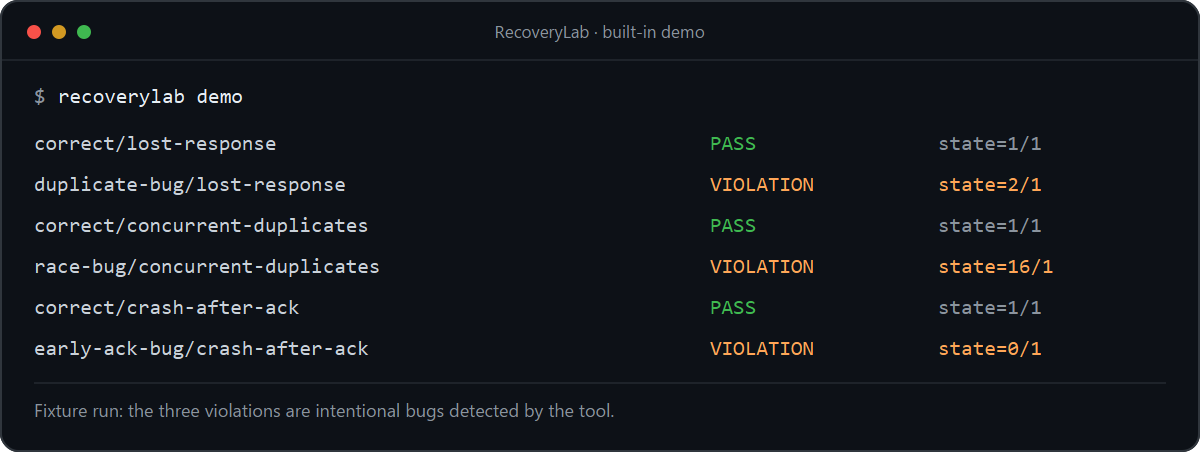
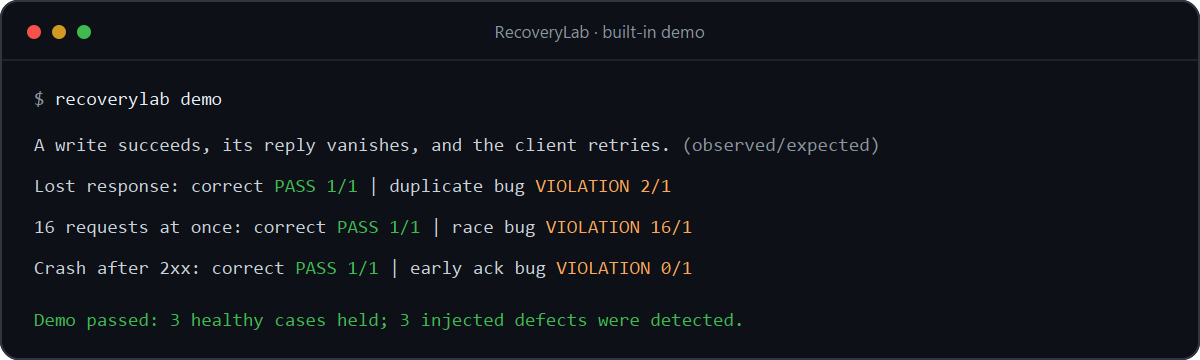
Simplify demo output and try it on NetCore

diff --git a/cmd/recoverylab/main.go b/cmd/recoverylab/main.go
@@ -242,6 +242,7 @@ func demo(args []string) int {
 		{"early-ack-bug", "crash-after-ack", "VIOLATION"},
 	}
 	allGood := true
+	reports := make([]engine.Report, len(cases))
 	for i, item := range cases {
 		addr, err := freeAddress()
 		if err != nil {
@@ -261,24 +262,32 @@ func demo(args []string) int {
 			c.Concurrency = 0
 		}
 		r := engine.Run(context.Background(), c)
-		fmt.Printf("%-38s %-10s expected=%s", r.Name, r.Status, item.want)
-		if r.Expected != nil && r.Observed != nil {
-			fmt.Printf("  state=%d/%d", *r.Observed, *r.Expected)
-		}
-		fmt.Println()
+		reports[i] = r
 		if r.Status != item.want {
 			allGood = false
+			fmt.Fprintf(os.Stderr, "%s: got %s, expected %s\n", r.Name, r.Status, item.want)
 			if r.Error != "" {
-				fmt.Println("  ", r.Error)
+				fmt.Fprintln(os.Stderr, "  ", r.Error)
 			}
 		}
 	}
+	fmt.Println("A write succeeds, its reply vanishes, and the client retries. (observed/expected)")
+	fmt.Printf("Lost response: correct %s | duplicate bug %s\n", demoResult(reports[0]), demoResult(reports[1]))
+	fmt.Printf("16 requests at once: correct %s | race bug %s\n", demoResult(reports[2]), demoResult(reports[3]))
+	fmt.Printf("Crash after 2xx: correct %s | early ack bug %s\n", demoResult(reports[4]), demoResult(reports[5]))
 	if !allGood {
-		fmt.Fprintln(os.Stderr, "Demo did not meet its expected outcomes.")
+		fmt.Fprintln(os.Stderr, "Demo failed: at least one fixture missed its expected outcome.")
 		return 1
 	}
-	fmt.Println("\nDemo passed: healthy cases held; duplicate, race, and durability defects were detected.")
+	fmt.Println("Demo passed: 3 healthy cases held; 3 injected defects were detected.")
 	return 0
+}
+
+func demoResult(r engine.Report) string {
+	if r.Observed == nil || r.Expected == nil {
+		return r.Status
+	}
+	return fmt.Sprintf("%s %d/%d", r.Status, *r.Observed, *r.Expected)
 }
 
 func serveFixture(args []string) int {

diff --git a/internal/engine/engine.go b/internal/engine/engine.go
@@ -225,7 +225,7 @@ func runLostResponse(ctx context.Context, request config.Request, r *Report) err
 	if retryErr != nil {
 		return fmt.Errorf("retry request: %w", retryErr)
 	}
-	r.event("retry", fmt.Sprintf("resent the same method, body, and idempotency key; HTTP %d", retryStatus))
+	r.event("retry", fmt.Sprintf("resent the same method, URL, body, and configured headers; HTTP %d", retryStatus))
 	return nil
 }
 

diff --git a/docs/independent-check.md b/docs/independent-check.md
@@ -1,0 +1,46 @@
+# Check against a separate service
+
+On 23 September 2026, RecoveryLab was run against [NetCore at commit `e299c45`](https://github.com/Wali05/NetCore/tree/e299c45). NetCore is a separate Spring Boot IP address management application. This check used its local, in-memory H2 profile; it did not modify NetCore's source or a persistent database.
+
+The setup started a clean NetCore process on a free loopback port, then made these requests:
+
+| Request | JSON body |
+| --- | --- |
+| `POST /api/v1/subnets` | `{"networkAddress":"10.245.42.0","prefixLength":29,"gatewayAddress":"10.245.42.1"}` |
+| `POST /api/v1/devices` | `{"name":"retry-check","type":"ROUTER"}` |
+| `POST /api/v1/devices/{deviceId}/interfaces` | `{"name":"eth0","macAddress":"02:00:00:00:00:42"}` |
+
+The subnet initially had zero allocated addresses. RecoveryLab then tested `POST /api/v1/subnets/{id}/allocate-next` with the `lost-response` scenario. It read `/totalElements` from NetCore's `GET /api/v1/subnets/{id}/addresses?status=ALLOCATED` response and expected one new allocation.
+
+The scenario was equivalent to this JSON, with the loopback port and IDs filled in from the running service:
+
+```json
+{
+  "name": "netcore-allocate-next-lost-response",
+  "scenario": "lost-response",
+  "timeout": "20s",
+  "request": {
+    "method": "POST",
+    "url": "http://127.0.0.1:PORT/api/v1/subnets/SUBNET_ID/allocate-next",
+    "headers": { "Content-Type": "application/json" },
+    "body": { "networkInterfaceId": 1 }
+  },
+  "observe": {
+    "url": "http://127.0.0.1:PORT/api/v1/subnets/SUBNET_ID/addresses?status=ALLOCATED",
+    "pointer": "/totalElements",
+    "expected_delta": 1
+  }
+}
+```
+
+Replace `PORT`, `SUBNET_ID`, and `1` with the port and IDs returned during setup, save the result as a scenario file, and run `recoverylab run scenario.json`. The tested request sent no idempotency key.
+
+| Observation | Result |
+| --- | --- |
+| Allocated addresses before | 0 |
+| First request | NetCore returned HTTP 200 to the proxy; the client saw a lost reply |
+| Retried request | HTTP 200 |
+| Allocated addresses after | 2 |
+| RecoveryLab verdict | `VIOLATION`, exit code 1; expected final count 1 |
+
+This confirms that RecoveryLab can run the lost-response experiment against another HTTP application and detect a state change after a retry. It also shows that this particular NetCore endpoint allocated two addresses in this setup. The endpoint does not promise idempotency, so the result is **not** evidence that NetCore broke its documented contract. It is a concrete example of the behavior a client must account for when retrying an allocation after an ambiguous response.

diff --git a/README.md b/README.md
@@ -16,20 +16,21 @@ With [Go 1.23+](https://go.dev/dl/) installed, run this from the repository root
 go run ./cmd/recoverylab demo
 ```
 
-The demo starts its own services. It needs no Docker, account, or API key. Three services are healthy; three have deliberate bugs:
+The demo starts its own services. It needs no Docker, account, or API key. It compares three healthy fixtures with three deliberately broken ones:
 
 ```text
-correct/lost-response                  PASS       expected=PASS  state=1/1
-duplicate-bug/lost-response            VIOLATION  expected=VIOLATION  state=2/1
-correct/concurrent-duplicates          PASS       expected=PASS  state=1/1
-race-bug/concurrent-duplicates         VIOLATION  expected=VIOLATION  state=16/1
-correct/crash-after-ack                PASS       expected=PASS  state=1/1
-early-ack-bug/crash-after-ack          VIOLATION  expected=VIOLATION  state=0/1
+A write succeeds, its reply vanishes, and the client retries. (observed/expected)
+Lost response: correct PASS 1/1 | duplicate bug VIOLATION 2/1
+16 requests at once: correct PASS 1/1 | race bug VIOLATION 16/1
+Crash after 2xx: correct PASS 1/1 | early ack bug VIOLATION 0/1
+Demo passed: 3 healthy cases held; 3 injected defects were detected.
 ```
 
-For example, `duplicate-bug/lost-response` reports `state=2/1`: two writes occurred when the expected result was one. A `VIOLATION` is the *correct* result for that buggy fixture.
+The numbers are observed/expected state values. `VIOLATION 2/1` means two writes occurred when the scenario expected one. A `VIOLATION` is the *correct* result for a deliberately buggy fixture.
 
 The fixture makes its race and early-ack bugs repeatable. That demonstrates how the checks work; it does not predict how often a run will expose a bug in your service.
+
+In a separate check, RecoveryLab ran against [NetCore](https://github.com/Wali05/NetCore), a Spring Boot service using an in-memory H2 database. After its `allocate-next` endpoint returned 200 but the reply was dropped, a retry raised the allocated-address count from 0 to 2. RecoveryLab reported `VIOLATION` for a scenario expecting one allocation. [The check and its limits](docs/independent-check.md) explain exactly what this shows.
 
 ## Install
 
